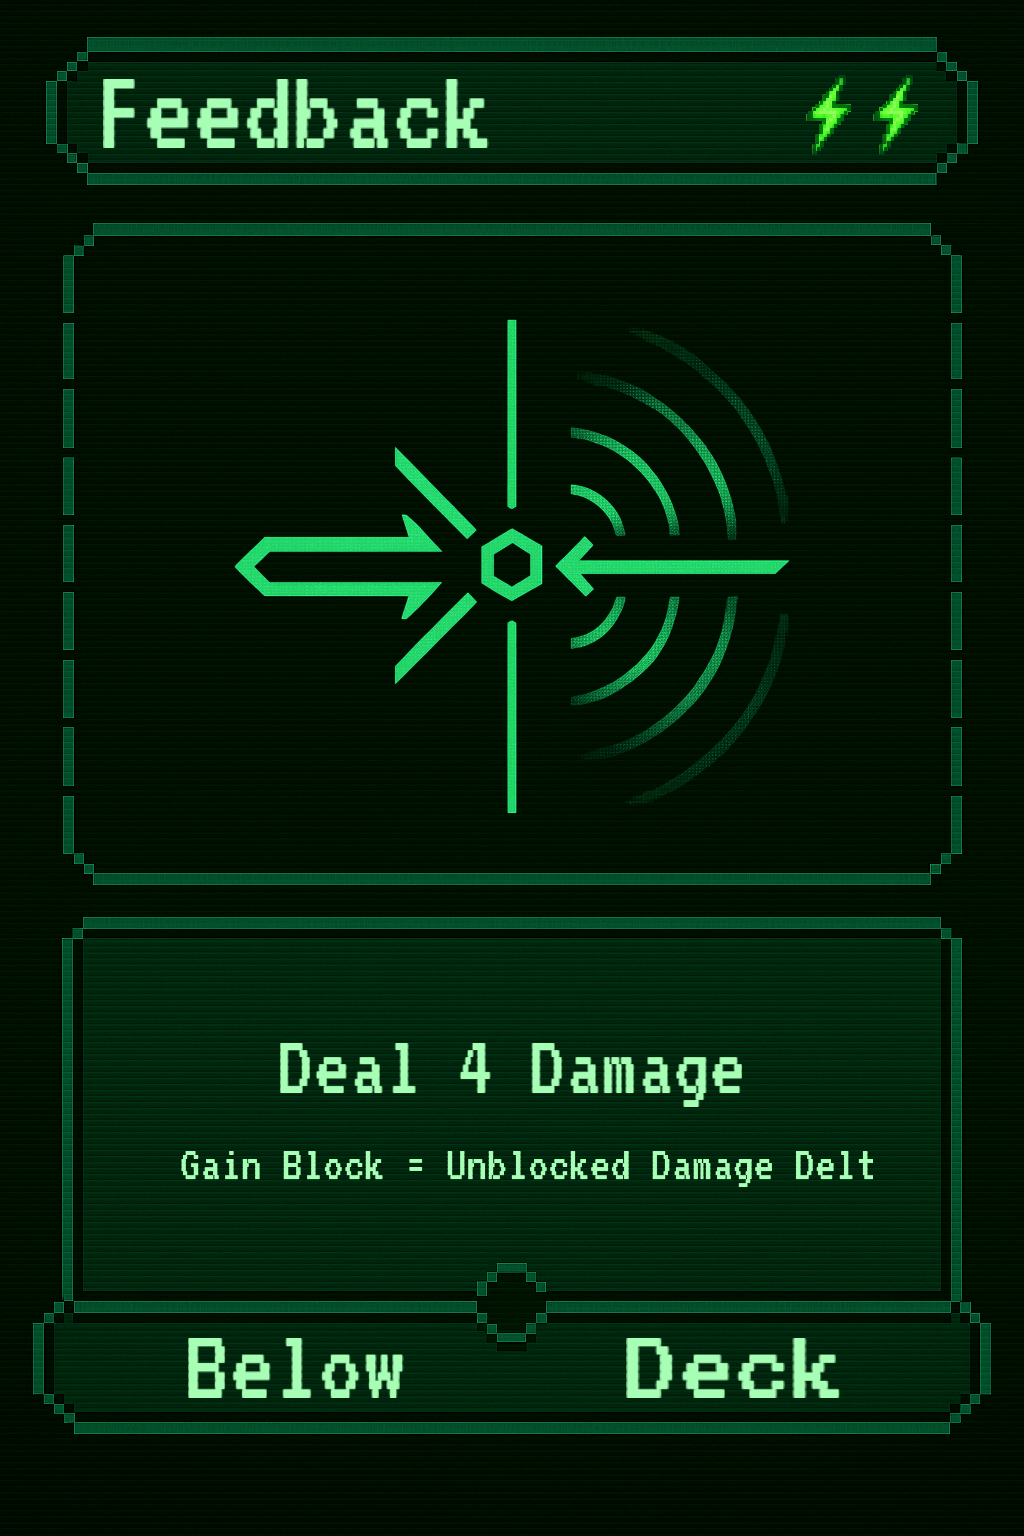
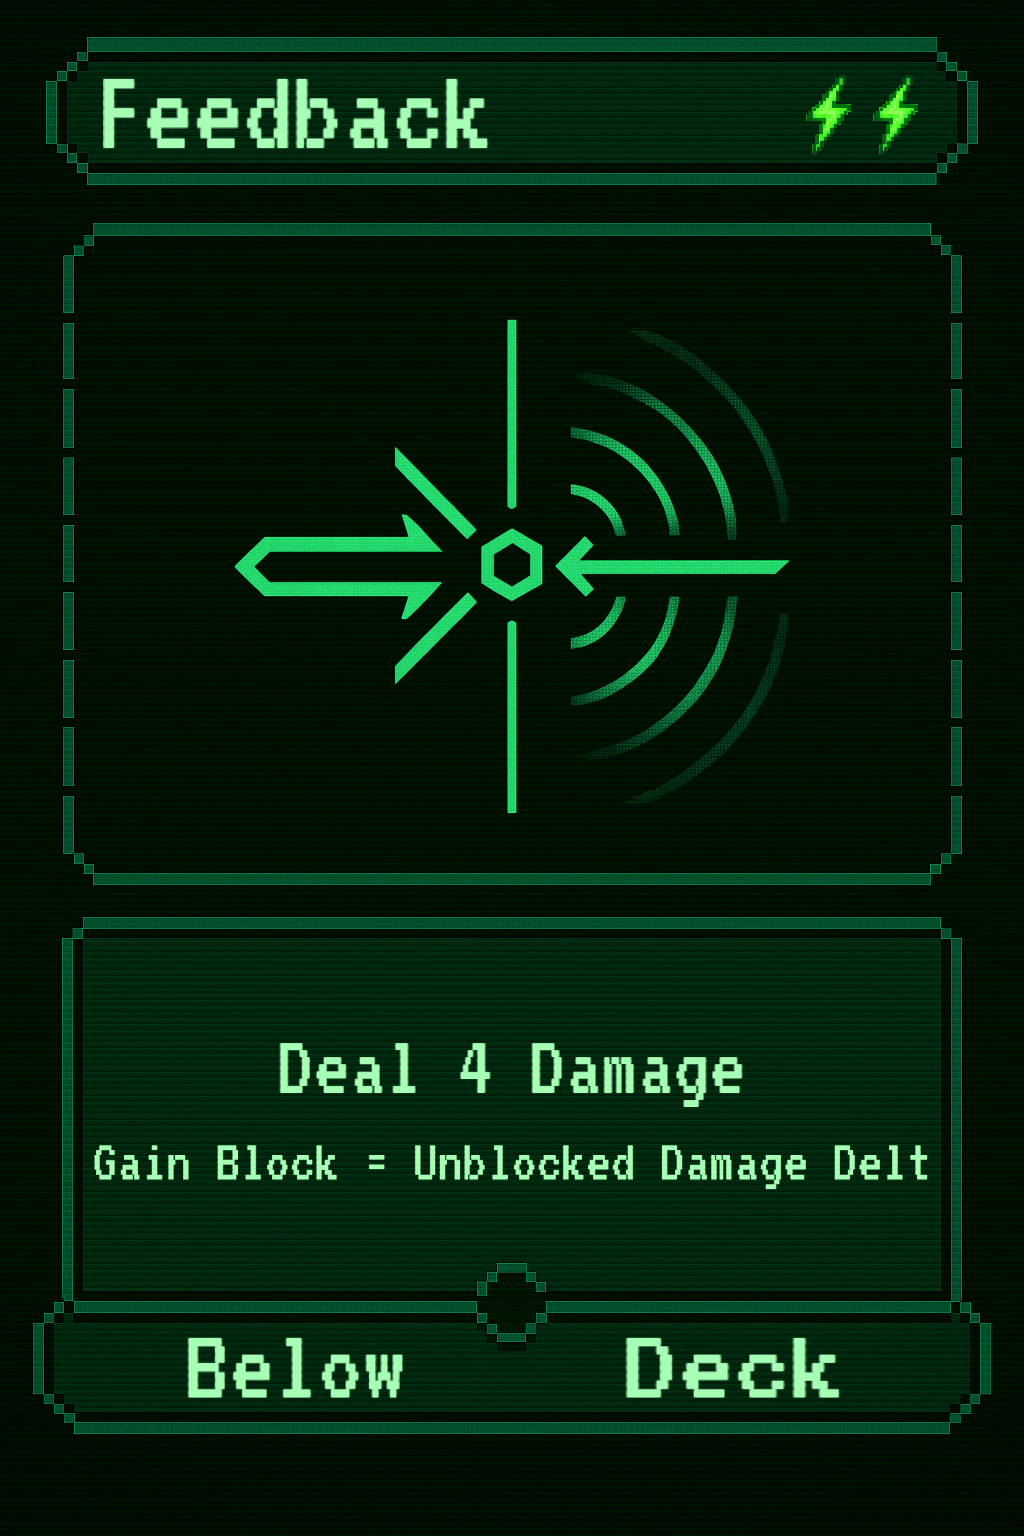
health no longer static
health

Changed region(s): [[0.4062, 0.75, 0.9062, 0.7812], [0.0938, 0.75, 0.375, 0.7812]]

diff --git a/Play.html b/Play.html
@@ -182,47 +182,47 @@
 
     const CARDS = [
         { id: 'Strike', name: "Strike", cost: 1, text: 'Deal 3 damage to enemy target', play: (G) => { G.Enemy.HP -= DamageOut(G, 3); } },
-        { id: 'Reinforce', name: "Reinforce", cost: 1, text: 'Gain 5 Block', play: (G) => { G.Player.Block += 5; } },
-        { id: 'Smash', name: "Smash", cost: 3, text: 'Deal 6 (+2/STR) damage', play: (G) => { 
+        { id: 'Reinforce', name: "Reinforce", cost: 1, text: 'Gain 5 Block. {Block: Block x amount of incoming damage for the enemys next turn.}', play: (G) => { G.Player.Block += 5; } },
+        { id: 'Smash', name: "Smash", cost: 3, text: 'Deal 6 damage (+2 damage per Strength)', play: (G) => { 
             const SmashDmg = DamageOut(G, 6 + 2 * G.Player.Str);
             G.Enemy.HP -=  SmashDmg
-            LogMessage(`You deal ${SmashDmg} damage to the enemy!`,"Player");
+            LogMessage(`[Smash] You deal ${SmashDmg} damage to the enemy!`,"Player");
 
         }},
-        { id: 'Siphon', name: "Siphon", cost: 2, text: 'Deal 3 damage, heal unblocked damage', play: (G) => {
+        { id: 'Siphon', name: "Siphon", cost: 2, text: '[Siphon] Deal 3 damage, heal unblocked damage', play: (G) => {
             const Result = DamageOut(G, 3, true);
             G.Enemy.HP -= Result.Dealt;
             G.Player.HP = Math.min(G.Player.Max, G.Player.HP + Result.Heal);
-            LogMessage(`> You siphoned ${Result.Dealt} HP from the enemy!`, 'green');
+            LogMessage(`[Siphon] You siphoned ${Result.Dealt} HP from the enemy!`, 'green');
         }},
-        {id: 'Feedback', name: "Feedback", cost: 2, text: 'Deal 4 damage, gain block equal to any unblocked damage', play: (G) => {
+        {id: 'Feedback', name: "Feedback", cost: 2, text: ' Deal 4 damage, gain block equal to any unblocked damage', play: (G) => {
             const dealt = DamageOut(G, 4, true);
             G.Player.Block += dealt.Heal; //gain block equal to any unblocked damage
             G.Enemy.HP -= dealt.Dealt;
-            LogMessage(`You dealt ${dealt.Dealt} damage and recieved ${dealt.Heal} Health.`,"Player")
+            LogMessage(`[Feedback] You dealt ${dealt.Dealt} damage and recieved ${dealt.Heal} Health.`,"Player")
         }},
-        { id: 'Optimize', name: "Optimize", cost: 1, text: 'Gain 1 Strength', play:(G)=> {
+        { id: 'Optimize', name: "Optimize", cost: 1, text: 'Gain 1 Strength. {Strength: 1 strength = +1 damage.}', play:(G)=> {
             G.Player.Str += 1;
         }},
         { id: 'Charge', name: "Charge", cost: 1, text: 'Gain 4 block, next turn gain 1 energy', play: (G) => {
             G.Player.Block += 4;
             G.Player.NextTurnEnergy = (G.Player.NextTurnEnergy || 0) + 1; //adds 1 energy to the players energy pool for the next turn.
         }},
-        { id: 'Overclock', name: "overclock", cost: 2, text: 'Gain 2 strength, apply 2 vulnerable to self.', play: (G) => {
+        { id: 'Overclock', name: "overclock", cost: 2, text: 'Gain 2 strength, apply 2 vulnerable to self.{Strength: 1 strength = +1 damage.} {Vulnerable: Enemy deals 50% more damage.}', play: (G) => {
             G.Player.Str += 2;
             G.Player.Vuln += 2;
         }},
-        { id: 'Melt', name: "Melt", cost: 2, text: 'Dea; 4 Damage, apply 2 weak to target.', play: (G) => {
+        { id: 'Melt', name: "Melt", cost: 2, text: ' Deal 4 Damage, apply 2 Vulnerable to target.{Vulnerable: Target takes 75% more damage.}', play: (G) => {
             const dmg = DamageOut (G, 4);
             G.Enemy.HP -= dmg;
             G.Enemy.Vuln = (G.Enemy.Vuln || 0) + 2;
-            LogMessage(`You Deal ${dmg} to the enemy! Enemy also gains 2 vulnerable.`, "Player");
+            LogMessage(`[Melt] You Deal ${dmg} to the enemy! Enemy also gains 2 vulnerable.`, "Player");
         }},
-        { id: 'Shock', name: "Shock", cost: 2, text: 'Deal 4 damage, apply 2 weak to target', play: (G) => {
+        { id: 'Shock', name: "Shock", cost: 2, text: 'Deal 4 damage, apply 2 weak to target {Weak: Enemy deals 25% less damage }', play: (G) => {
             const dmg = DamageOut (G, 4);
             G.Enemy.HP -= dmg;
             G.Enemy.Weak = (G.Enemy.Weak || 0) + 2;
-            LogMessage(`You Deal ${dmg} damage to the enemy! Enemy also gains 2 weakness.`,"Player");
+            LogMessage(`[Shock] You Deal ${dmg} damage to the enemy! Enemy also gains 2 weakness.`,"Player");
         }}
     ];
 
@@ -240,7 +240,17 @@
 
     function InitBattle(Level) {
     G.Enemy = { ...ENEMIES[Level] };
-    G.Player = { Max: 99, HP: 30, Str: 0, Weak: 0, Vuln: 0, Block: 0, Energy: 3 };
+    //initiallize health in beginning but not after that
+    if (!G.Player.HP){
+        G.Player.Max = 99;
+        G.Player.HP = 30;
+    }
+    G.Player.Str = 0;
+    G.Player.Weak = 0;
+    G.Player.Vuln = 0;
+    G.Player.Block = 0;
+    G.Player.Energy = 0;
+    //G.Player = { Max: 99, Str: 0, Weak: 0, Vuln: 0, Block: 0, Energy: 3 };
     //load correct image for creature
     const EnemyImage = document.getElementById("EnemyImage");
     EnemyImage.src = `Pictures/Creature${Level}.png`;
@@ -314,11 +324,11 @@
         }
 
         //for card play in combat log
-        if (Card.id === 'Reinforce') LogMessage("User gained 5 Block", "Player");
-        if (Card.id === 'Strike') LogMessage("You struck the enemy for 3 damage", "Player");
-        if (Card.id === 'Optimize') LogMessage("Your strength increased by +1!", "Player");
-        if (Card.id === 'Charge') LogMessage("You gain 4 block! Next turn start with +1 energy.", "player");
-        if (Card.id === 'Overclock') LogMessage("You gain 2 Strength! You also apply 2 vulnerable to self.");
+        if (Card.id === 'Reinforce') LogMessage("[Reinforce] User gained 5 Block", "Player");
+        if (Card.id === 'Strike') LogMessage("[Strike] You struck the enemy for 3 damage", "Player");
+        if (Card.id === 'Optimize') LogMessage("[Optimize] Your strength increased by +1!", "Player");
+        if (Card.id === 'Charge') LogMessage("[Charge]You gain 4 block! Next turn start with +1 energy.", "player");
+        if (Card.id === 'Overclock') LogMessage("[Overclock] You gain 2 Strength! You also apply 2 vulnerable to self.", "Player");
 
         //spend energy and play selected card
         G.Player.Energy -= Card.cost;
@@ -373,7 +383,10 @@ function hideTooltip() {
         let dmg = G.Enemy.ATK;
         //if player has vulnerability
         if (G.Player.Vuln > 0){
-            dmg = Math.floor (dmg * 1.5);
+            dmg = Math.floor (dmg* 1.5);
+        }
+        if (G.Enemy.Weak >0) {
+            dmg = Math.floor (dmg * 0.75)
         }
         const blockUsed = Math.min(G.Player.Block, dmg);
         dmg -= blockUsed;
@@ -390,8 +403,10 @@ function hideTooltip() {
         intentDiv.className = "Enemy-Intent Defend";
         LogMessage(`Eenmy Gain ${GainBlock} block`, "Enemy");
     }
-       
-    
+
+    if (G.Player.Vuln > 0) G.Player.Vuln--;
+    if (G.Player.Weak > 0) G.Player.Weak--;
+        
 
     if (G.Player.HP <= 0) {
         LogMessage("you were Defeated!", "System");
@@ -413,6 +428,11 @@ function hideTooltip() {
         G.Player.NextTurnEnergy = 0; //reset after using charge, which adds 1 energy to energy pool
         RenderBattle(State.LevelID);
     }
+
+    
+        //reduce enemy weak/vuln by 1
+        if (G.Enemy.Vuln > 0) G.Enemy.Vuln--;
+        if (G.Enemy.Weak > 0) G.Enemy.Weak--;
 }
 
 

diff --git a/CSS/Style.css b/CSS/Style.css
@@ -303,7 +303,7 @@ cursor: pointer;
   color: #00ff00;
   text-shadow: 0 0 8px #00ff00;
   font-size: 3rem;
-  animation: fadeOut 3s forwards;
+  animation: fadeOut 1.5s forwards;
 }
 
 .Enemy-Intent.Attack i {
